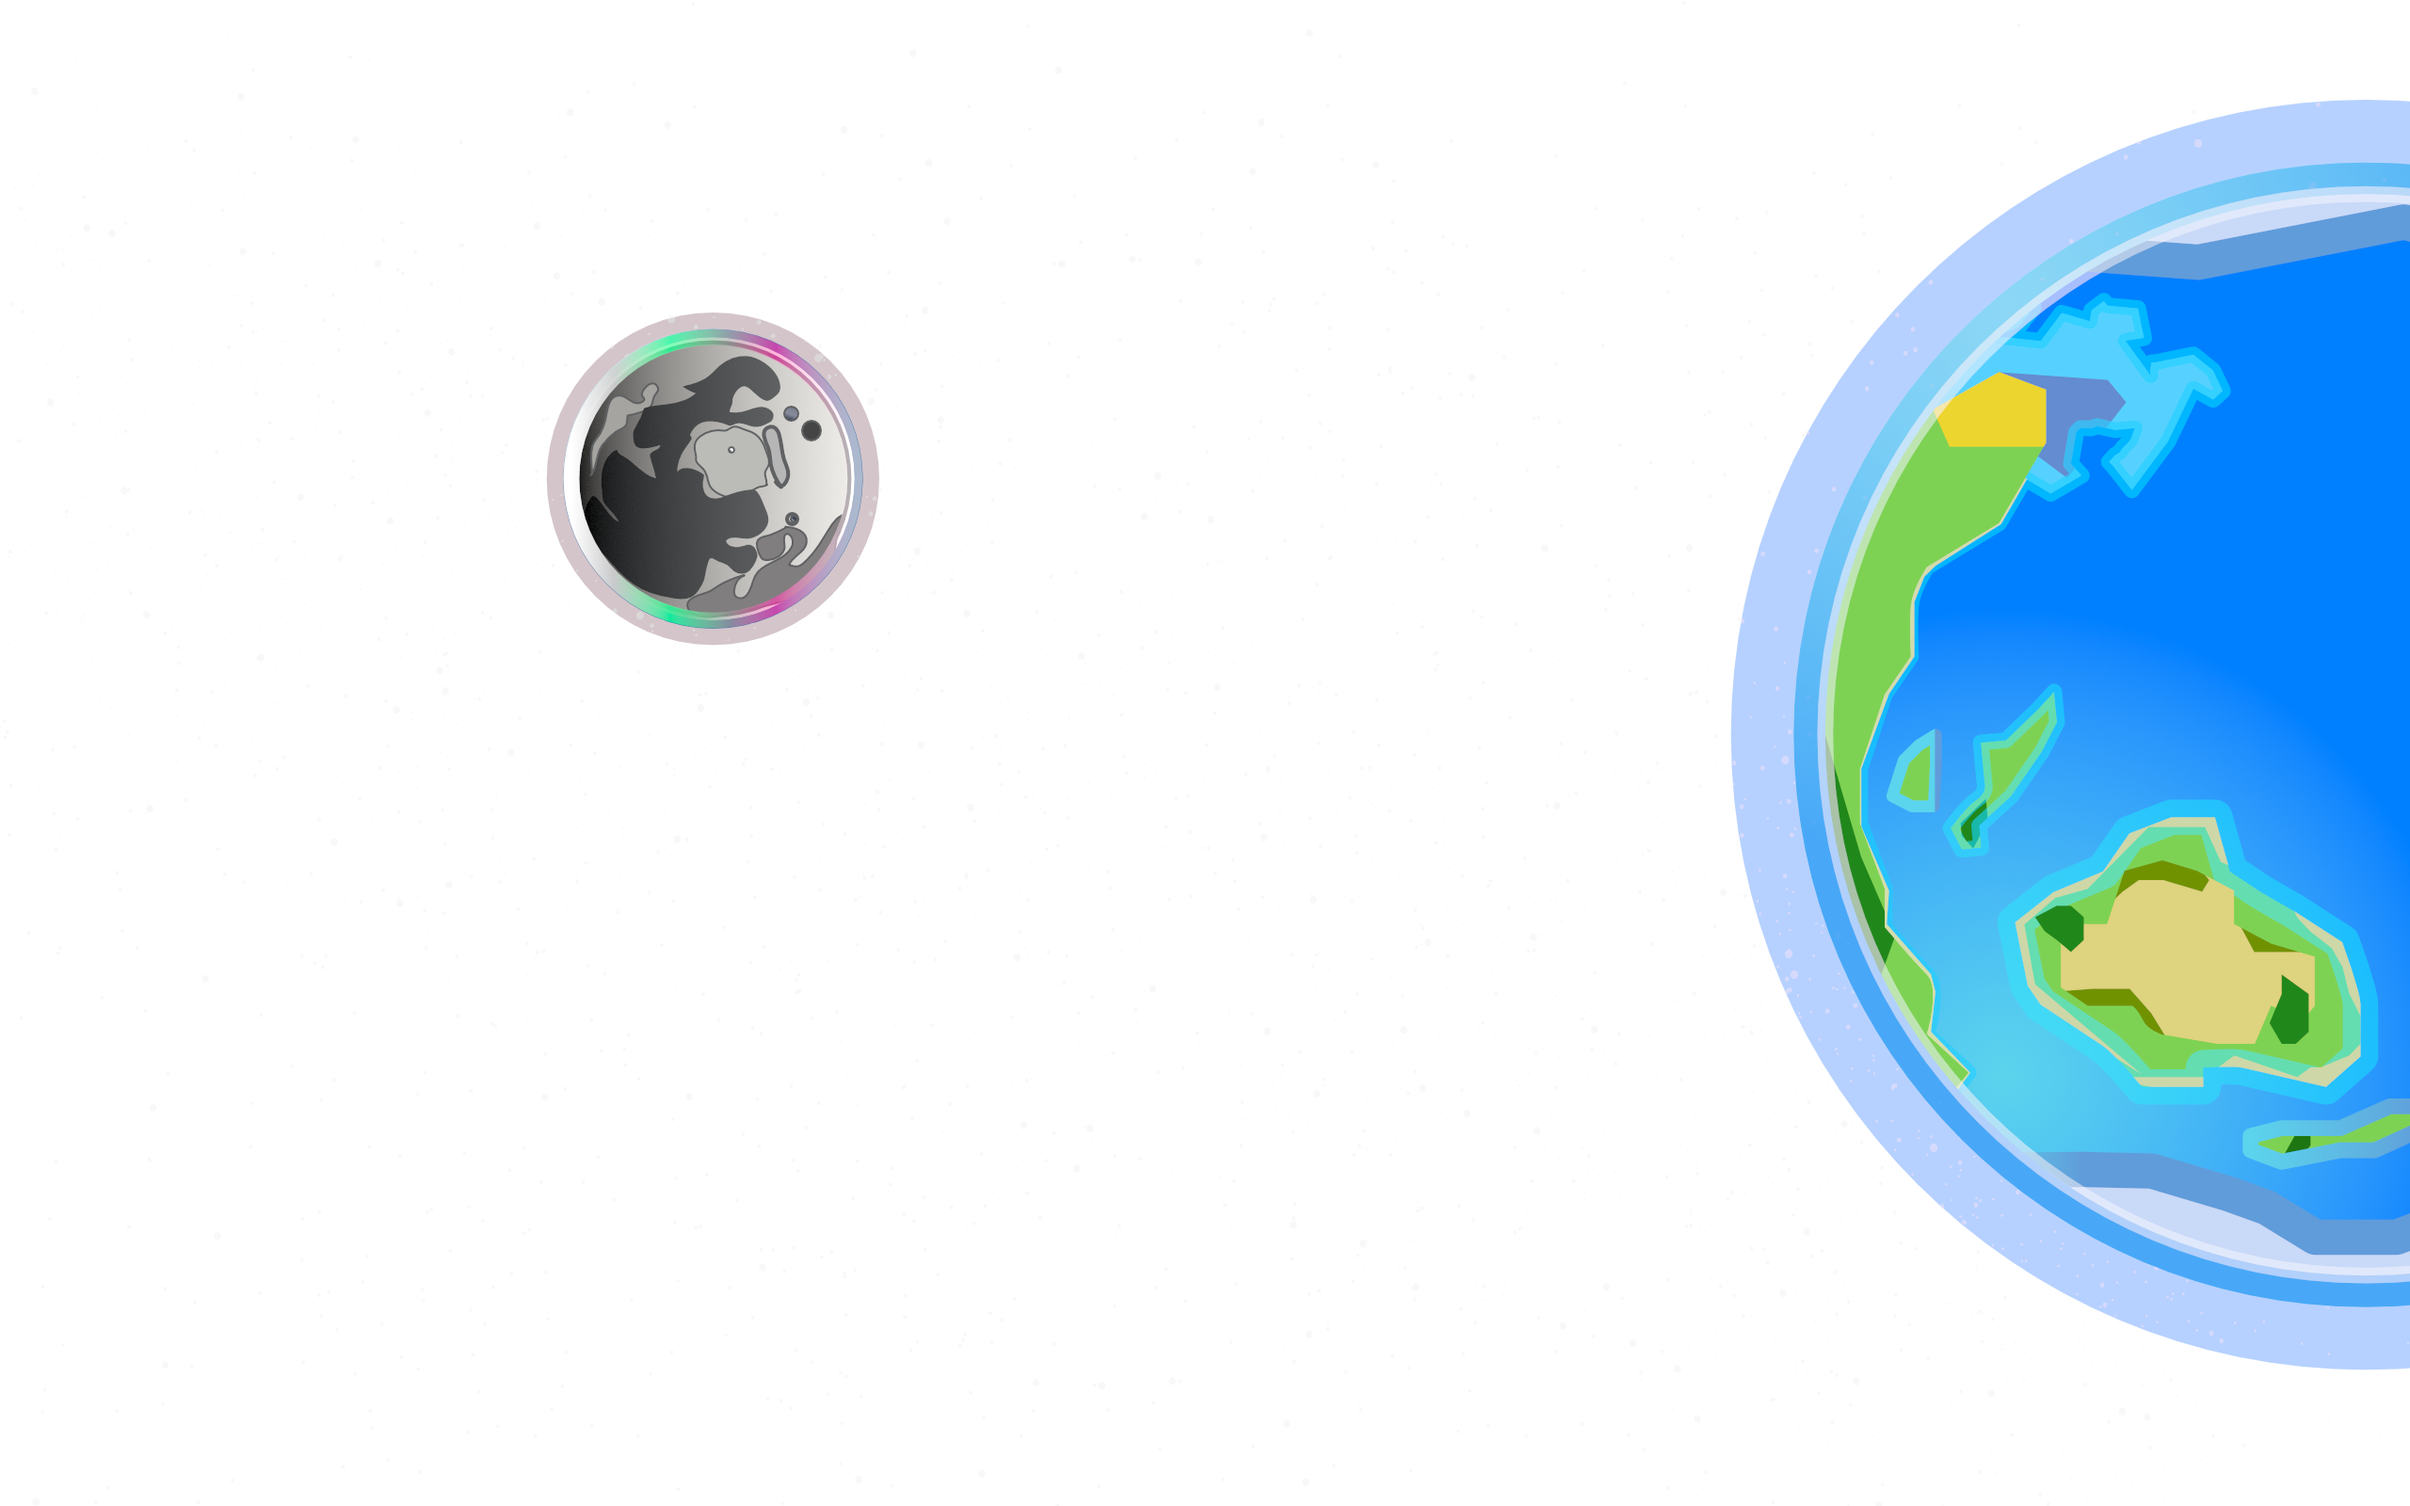
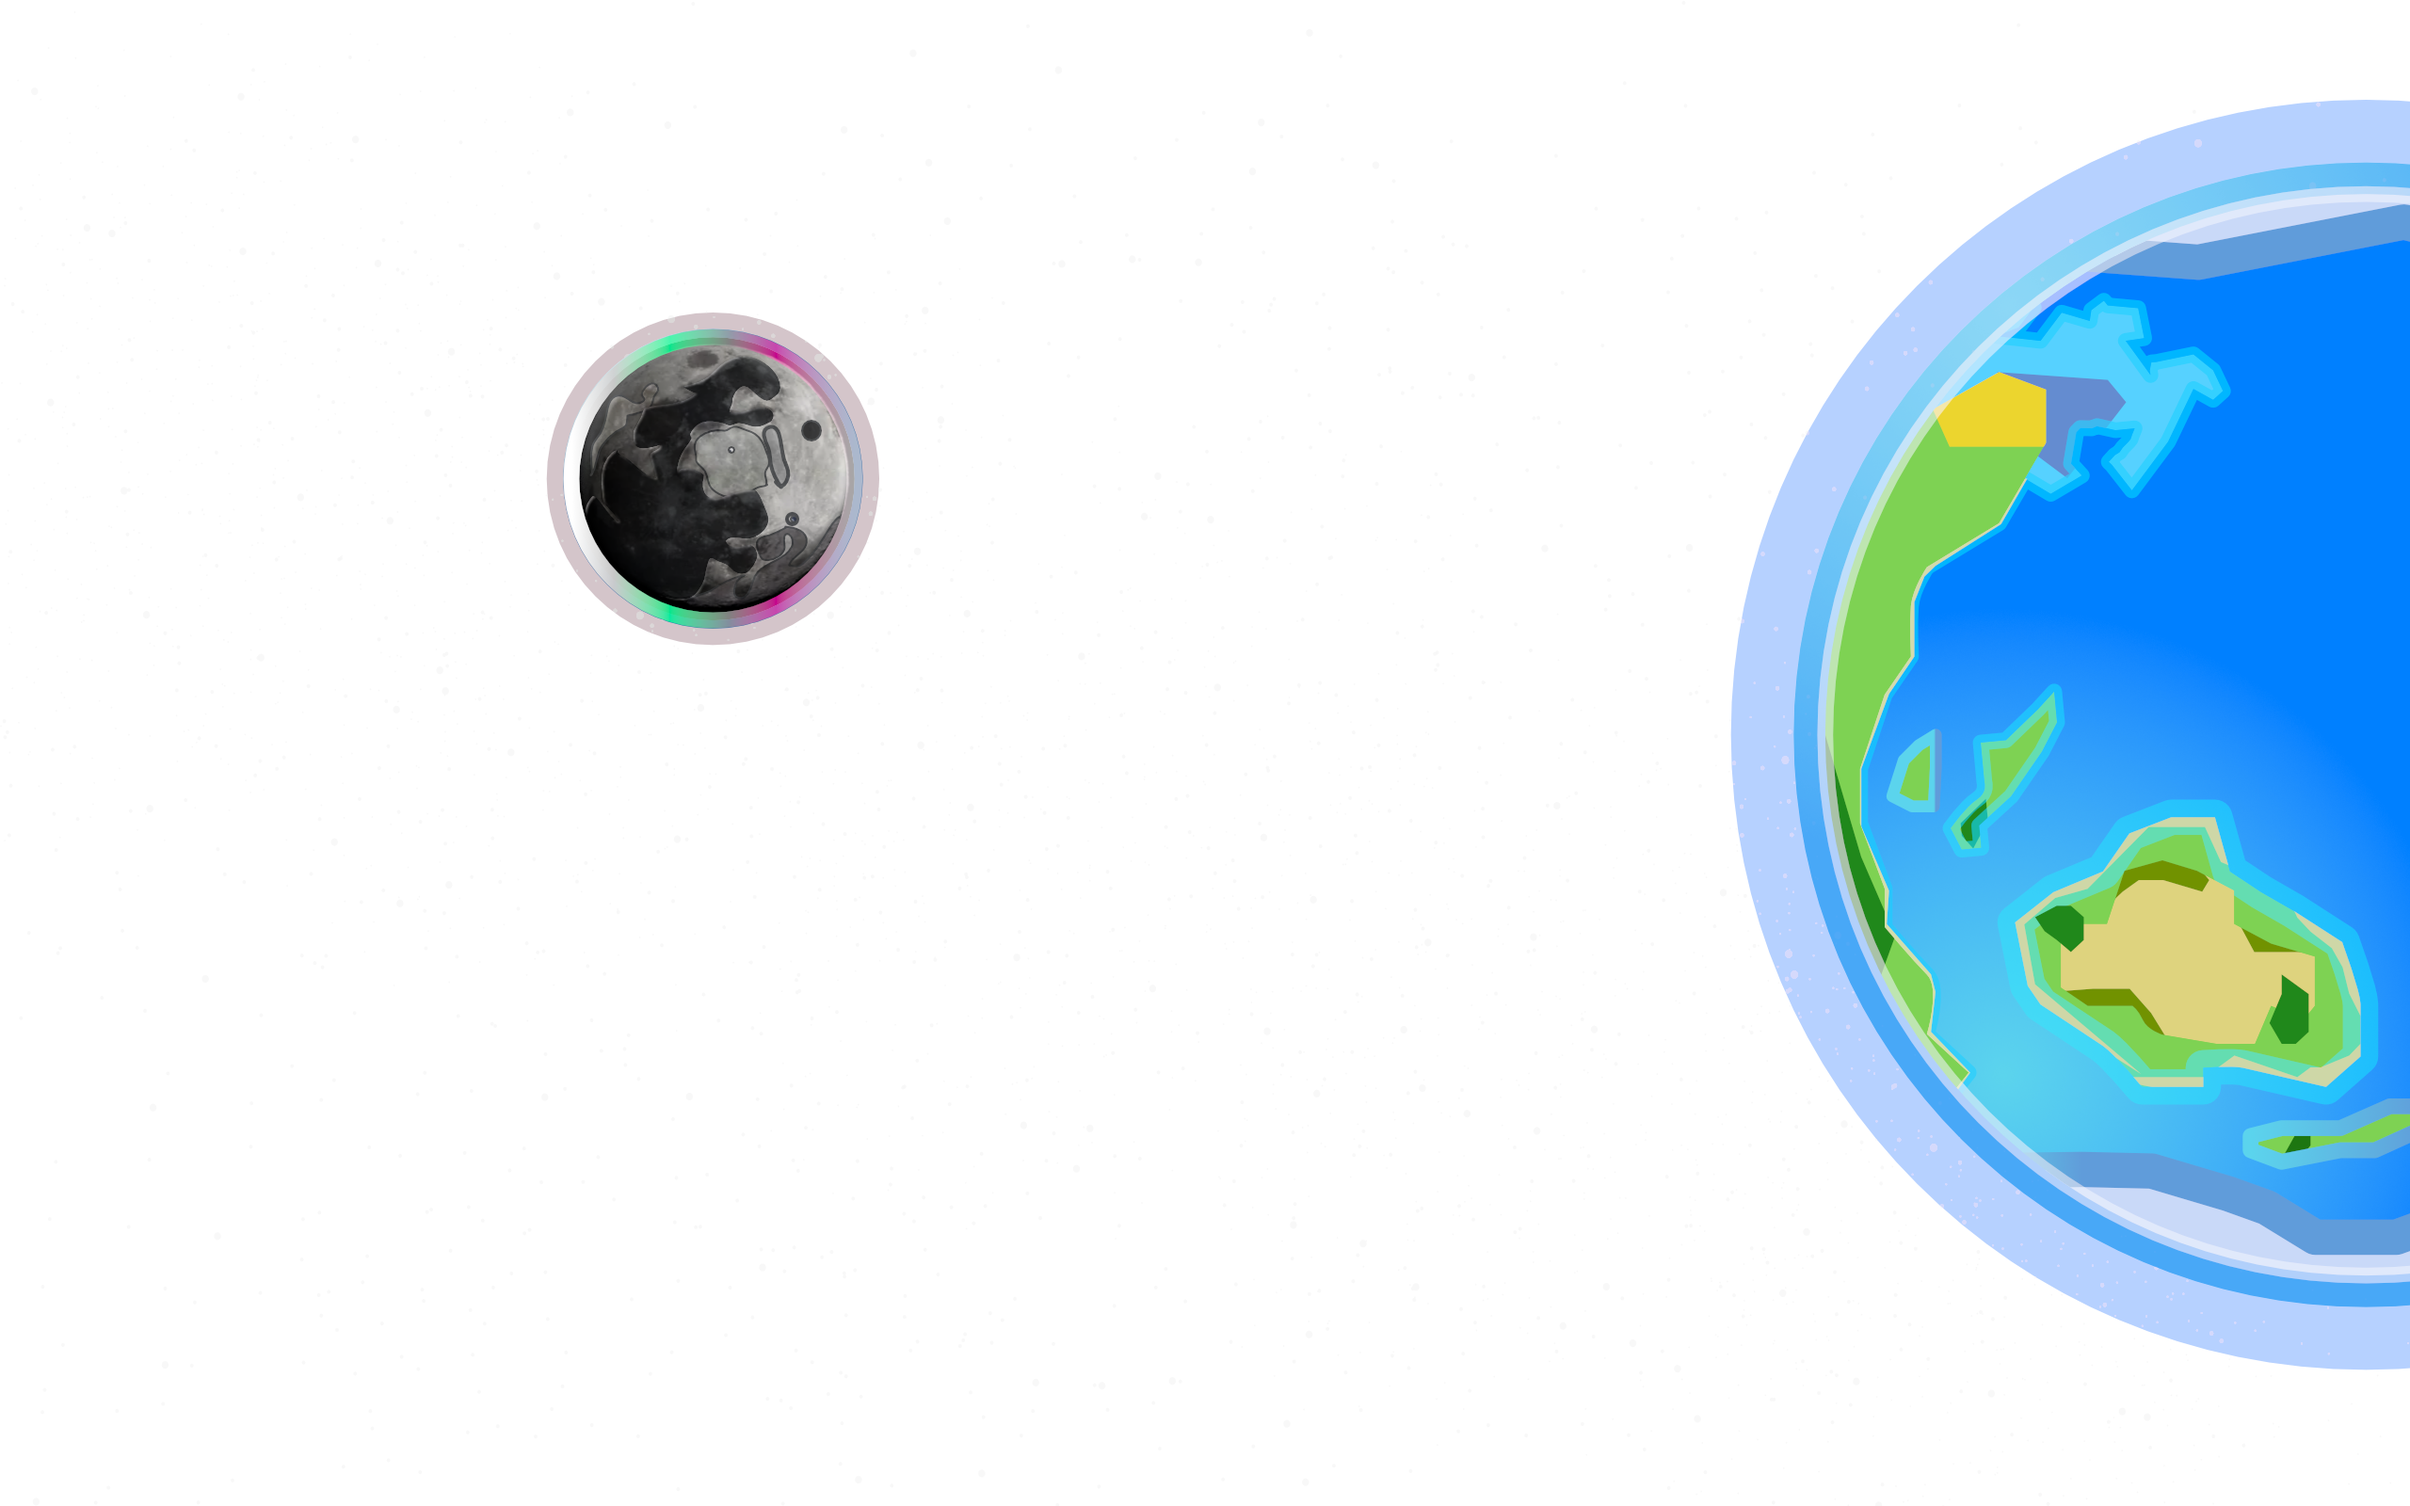
more wallpapers added new  header styling applied

Changed region(s): [[0.2188, 0.2188, 0.375, 0.4062]]

diff --git a/src/components/AboutMe/AboutMe.css b/src/components/AboutMe/AboutMe.css
@@ -19,13 +19,32 @@
   backdrop-filter: blur(10px);
 }
 
-#about h1 {
+.gradient-heading-container {
+  background: linear-gradient(to right, rgb(179, 0, 255), rgb(0, 140, 255));
+  border-radius: 10px;
+  text-align: center;
+  padding: 1rem 0;
+  margin: auto; /* Center the container */
+  width: 100%; /* Fill the entire width of the section */
+}
+
+.gradient-heading {
+  color: white;
+  font-size: 5rem;
+  display: inline-block; /* Allows the text to only take up as much space as it needs */
+  margin: 0; /* Remove any default margin */
+}
+
+
+
+/* #about h1 {
     font-size: 5rem;
-    color: rgb(255, 45, 45);
+    background: linear-gradient(to right, rgb(179, 0, 255), rgb(0, 140, 255));
+    border-radius: 10px;
     font-weight: 700;
     text-align: center;
     padding: 2rem 0;
-}
+} */
 
 #about h3 {
     font-size: 2.5rem;
@@ -137,9 +156,11 @@
 
 .about-me-image {
   width: 25%;
+  
 }
 
 .about-me-image img {
+  padding-top: 2em;
   width: 100%;
   border-radius: 30px;
 }
@@ -202,6 +223,49 @@
 }
 
 .hobby-item:hover span {
+  opacity: 1;
+  visibility: visible; /* Show caption on hover */
+  transform: translateY(0); /* Slide up caption on hover */
+}
+
+.hobby-item2 {
+  position: relative;
+  display: flex;
+  justify-content: center; /* Center horizontally */
+  align-items: center; /* Center vertically */
+  overflow: hidden;
+  border-radius: 30px;
+}
+
+.hobby-item2 img {
+  width: 500px; /* Ensure the image fills the container */
+  height: 400px; /* Fixed height to make all images the same size */
+  object-fit:cover; /* This will cover the area, cropping the image if necessary */
+  transition: transform 0.3s ease-in-out;
+  
+  
+}
+
+.hobby-item2 span {
+  position: absolute;
+  bottom: 0;
+  left: 0;
+  right: 0;
+  background-color: rgba(0, 0, 0, 0.7); /* Caption background */
+  color: white;
+  padding: 0.5rem;
+  text-align: center;
+  transition: opacity 0.3s ease;
+  opacity: 0; /* Hide caption initially */
+  visibility: hidden; /* Hide caption initially */
+  transform: translateY(100%); /* Start hidden below the image */
+}
+
+.hobby-item2:hover img {
+  transform: scale(0.8); /* Slightly shrink images on hover */
+}
+
+.hobby-item2:hover span {
   opacity: 1;
   visibility: visible; /* Show caption on hover */
   transform: translateY(0); /* Slide up caption on hover */

diff --git a/src/components/MyProjects/MyProjects.css b/src/components/MyProjects/MyProjects.css
@@ -13,13 +13,14 @@
     
 }
 
-#projects h1 {
+/* #projects h1 {
     font-size: 5rem;
-    color: rgb(255, 45, 45);
+    background: linear-gradient(to right, rgb(179, 0, 255), rgb(0, 140, 255));
+    border-radius: 10px;
     font-weight: 700;
     text-align: center;
     padding: 2rem 0;
-}
+} */
 
 #projects h3 {
     font-size: 2.5rem;
@@ -30,22 +31,7 @@
 }
 
 
-.motion-button {
-    color: white;
-    background-color: rgba(0, 0, 0, 0.5);
-    border: none;
-    font-size: 1.5em; /* Standardized font size */
-    padding: 10px 20px;
-    border-radius: 5px;
-    cursor: pointer;
-    transition: background-color 0.3s;
-    width: fit-content;
-    margin: 10px auto;
-}
 
-.motion-button:hover {
-    background-color: rgba(0, 0, 0, 0.7);
-}
 
 #projects p 
  {
@@ -90,7 +76,21 @@
     
 }
 
-
+.gradient-heading-container {
+    background: linear-gradient(to right, rgb(179, 0, 255), rgb(0, 140, 255));
+    border-radius: 10px;
+    text-align: center;
+    padding: 1rem 0;
+    margin: auto; /* Center the container */
+    width: 100%; /* Fill the entire width of the section */
+  }
+  
+  .gradient-heading {
+    color: white;
+    font-size: 5rem;
+    display: inline-block; /* Allows the text to only take up as much space as it needs */
+    margin: 0; /* Remove any default margin */
+  }
 
 .link-icon {
     vertical-align: middle;
@@ -104,7 +104,7 @@
 .project-container {
     max-width: 80%;  /* Limits the content width to 80% */
     margin: 0 auto;  /* Centers the content horizontally */
-    
+    padding: 2rem ;
     display: flex;
     flex-direction: column;
     align-items: center;

diff --git a/src/components/AboutMe/AboutMe.js b/src/components/AboutMe/AboutMe.js
@@ -7,8 +7,9 @@ export const AboutMe = () => {
     <section id="about" className="hidden">
     <div className="content">
       <section id="about-me" className="about-me-section">
-      <h1>About Me</h1>
-      
+      <div className="gradient-heading-container">
+      <h1 className="gradient-heading">About Me</h1>
+      </div>
       <div className="about-me-content">
         
         <div className="about-me-text">
@@ -100,19 +101,19 @@ export const AboutMe = () => {
         </div>
 
         <div className="hobbies-gallery">
-          <div className="hobby-item">
+          <div className="hobby-item2">
             <img src="/images/Totk1.jpg" alt="Link using the ascend ability" className="hobby-image" />
             <span>Link Ascending</span>
           </div>
-          <div className="hobby-item">
+          <div className="hobby-item2">
             <img src="/images/Totk5.webp" alt="Link fighting a construct" className="hobby-image" />
             <span>Link fighting a construct</span>
           </div>
-          <div className="hobby-item">
+          <div className="hobby-item2">
             <img src="/images/Totk3.jpg" alt="Link at Lookout Landing" className="hobby-image" />
             <span>Link at Lookout Landing</span>
           </div>
-          <div className="hobby-item">
+          <div className="hobby-item2">
             <img src="/images/Totk4.webp" alt="Link on his Hover Bike" className="hobby-image" />
             <span>Link on his Hover Bike</span>
           </div>

diff --git a/src/components/Contact/Contact.css b/src/components/Contact/Contact.css
@@ -2,14 +2,22 @@
     background-color: #1A0064;
     color: #fff;
     padding: 5rem 0;
+    background-image: url('../../../public/images/wallpaper-meteor-stars.png');
+    background-repeat: repeat;
+    background-size: cover;
+    background-position: center;
+    background-attachment: fixed;
 }
-#contact h1 {
+
+
+/* #contact h1 {
     font-size: 5rem;
-    color: rgb(255, 45, 45);
+    background: linear-gradient(to right, rgb(179, 0, 255), rgb(0, 140, 255));
+    border-radius: 10px;
     font-weight: 700;
     text-align: center;
     padding: 2rem 0;
-}
+} */
     
 
 #contact p {
@@ -18,3 +26,19 @@
     text-align: center;
     padding: 2rem 0;
 }
+
+.gradient-heading-container {
+    background: linear-gradient(to right, rgb(179, 0, 255), rgb(0, 140, 255));
+    border-radius: 10px;
+    text-align: center;
+    padding: 1rem 0;
+    margin: auto; /* Center the container */
+    width: 100%; /* Fill the entire width of the section */
+  }
+  
+  .gradient-heading {
+    color: white;
+    font-size: 5rem;
+    display: inline-block; /* Allows the text to only take up as much space as it needs */
+    margin: 0; /* Remove any default margin */
+  }

diff --git a/src/components/Skills/Skills.css b/src/components/Skills/Skills.css
@@ -20,7 +20,7 @@
   text-align: center;
   font-size: 1.5rem;
   font-weight: 400;
-  padding: 2rem 0;
+  padding: 2rem ;
  
 }
 
@@ -39,10 +39,14 @@
   margin: 1rem 0;
 }
 
-#skills h1 {
+/* #skills h1 {
   font-size: 5rem;
-  color:rgb(255, 45, 45)
-}
+    background: linear-gradient(to right, rgb(179, 0, 255), rgb(0, 140, 255));
+    border-radius: 10px;
+    font-weight: 700;
+    text-align: center;
+    padding: 2rem 0;
+} */
 
 #skills h2 {
   font-size: 4rem;
@@ -53,6 +57,23 @@
   color: aquamarine;
   margin: 1rem 0;
 }
+
+.gradient-heading-container {
+  background: linear-gradient(to right, rgb(179, 0, 255), rgb(0, 140, 255));
+  border-radius: 10px;
+  text-align: center;
+  padding: 1rem 0;
+  margin: auto; /* Center the container */
+  width: 100%; /* Fill the entire width of the section */
+}
+
+.gradient-heading {
+  color: white;
+  font-size: 5rem;
+  display: inline-block; /* Allows the text to only take up as much space as it needs */
+  margin: 0; /* Remove any default margin */
+}
+
 
 .skills-icons {
   display: flex;

diff --git a/src/components/Galaxy/Galaxy.js b/src/components/Galaxy/Galaxy.js
@@ -106,8 +106,8 @@ for (let i = 0; i < numStars; i++) {
         <img src="/images/pillarsofTom.png" alt="Pillars of Tom" className="pillars" />
           <div className="message">
             <h1>Hello and welcome</h1>
-            <p>You have reached Tomulvlup Dev space</p>
-            <p>Explore my universe of code 😀</p>
+            <p>You have reached Tom's Dev space</p>
+            <p>My universe of code 😀</p>
           </div>
         </div>
       </div>

diff --git a/src/components/Skills/Skills.js b/src/components/Skills/Skills.js
@@ -6,7 +6,9 @@ export const Skills = () => {
     <section id="skills">
     <div className='white-block'>
       <div className="content-overlay">
-        <h1>Skills</h1>
+      <div className="gradient-heading-container">
+        <h1 className="gradient-heading">Skills</h1>
+        </div>
         <h2>Front End</h2>
         <div className="skills-icons front-end-skills"> {/* Container for front-end skills icons */}
           <div className="skill">

diff --git a/src/components/Galaxy/Galaxy.css b/src/components/Galaxy/Galaxy.css
@@ -29,12 +29,15 @@
 }
 
 .message h1 {
-  background: -webkit-linear-gradient(rgb(255, 0, 0), rgb(0, 0, 255));
+  background: linear-gradient(to right, rgb(179, 0, 255), rgb(0, 140, 255));
   -webkit-background-clip: text;
+  background-clip: text;
   -webkit-text-fill-color: transparent;
+  text-fill-color: transparent;
   font-size: 2em; /* Adjust the size as needed */
   text-align: center; /* Center the text */
 }
+
 
 
 @keyframes fadeIn {

diff --git a/src/components/Contact/Contact.js b/src/components/Contact/Contact.js
@@ -25,7 +25,10 @@ export const Contact = ({ className }) => {
 
   return (
     <section id="contact" className={className}>
-      <h1>Contact</h1>
+    
+    <div className="gradient-heading-container">
+      <h1 className='gradient-heading' >Contact</h1>
+      </div>
       <p>Here is my contact info and Resume</p>
       <form onSubmit={handleSubmit}>
         <label htmlFor="name">Name:</label>

diff --git a/src/components/MyProjects/MyProjects.js b/src/components/MyProjects/MyProjects.js
@@ -24,7 +24,9 @@ export const MyProjects = ({ className }) => {
     <section id="projects" className={className}>
       <div>
       <div className='project-container'>
-      <h1>Projects</h1>
+      <div className="gradient-heading-container">
+      <h1 className='gradient-heading' >Projects</h1>
+      </div>
         <div className="motion-div">
           <p>{projects[0].description}</p>
 
